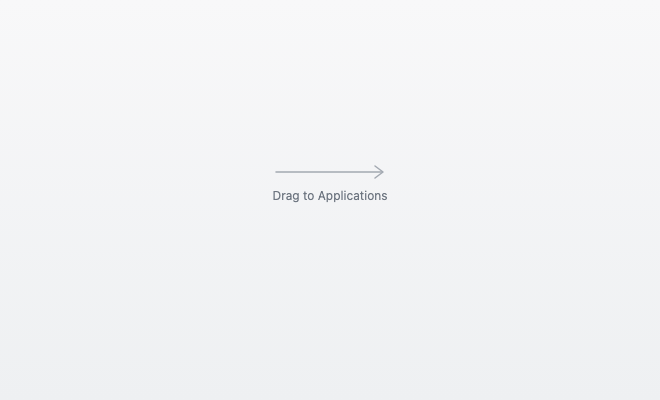
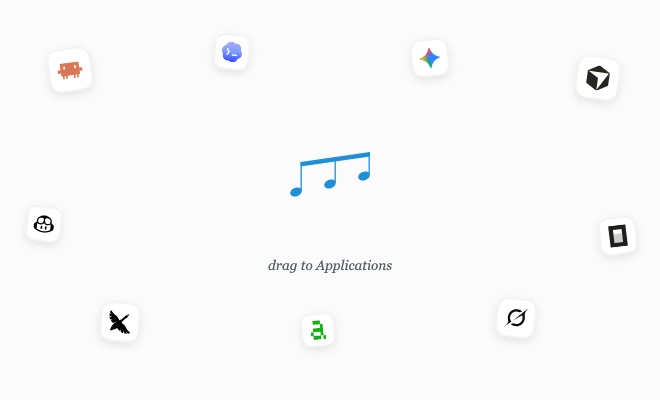
feat(desktop): orchestra dmg window and an "Orchestrator" volume
Redesign the install window around what the product does: the agent
harnesses Orchestrator runs (Claude Code, Codex, Gemini, Cursor, Copilot,
opencode, Goose, Aider, Grok) float as small tiles in the margins, and a
rising beamed phrase between the app and Applications is the drag cue,
with an italic "drag to Applications" on the labels' baseline.

The art references the renderer's own logo files, so the render script
opens the SVG as a file; a test keeps every tile clear of the icons and
labels, inside the visible area, and pointing at a real logo.

The mounted volume is now named "Orchestrator". The .app keeps its
"Agent Orchestrator" name for now: ao start, the updater, stale-copy
cleanup and the repair installer find it by that name, so the bundle
rename is its own change.

diff --git a/frontend/makers/maker-dmg.test.ts b/frontend/makers/maker-dmg.test.ts
@@ -149,7 +149,7 @@ describe("MakerDMG", () => {
 		await new MakerDMG().make(makeOptions);
 		const [, options] = buildForge.mock.calls.at(-1)!;
 		const dmg = options.config.dmg;
-		expect(dmg.title).toBe("${productName}");
+		expect(dmg.title).toBe("Orchestrator");
 		expect(dmg.iconSize).toBe(128);
 		expect(dmg.background).toBe(BACKGROUND_IMAGE);
 		expect(path.basename(BACKGROUND_IMAGE)).toBe("background.png");
@@ -159,8 +159,8 @@ describe("MakerDMG", () => {
 		expect(dmg.icon).toBe(VOLUME_ICON);
 		expect(existsSync(VOLUME_ICON)).toBe(true);
 		expect(dmg.contents).toEqual([
-			{ x: 170, y: 172, type: "file" },
-			{ x: 490, y: 172, type: "link", path: "/Applications" },
+			{ x: 170, y: 184, type: "file" },
+			{ x: 490, y: 184, type: "link", path: "/Applications" },
 		]);
 	});
 
